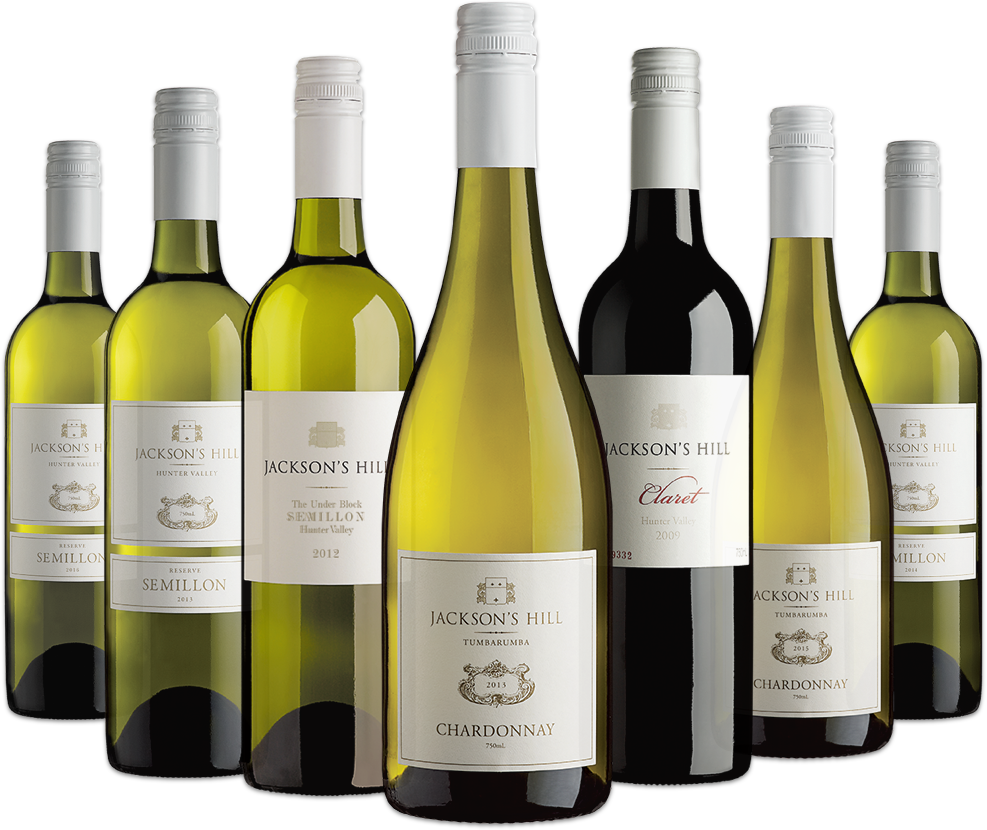
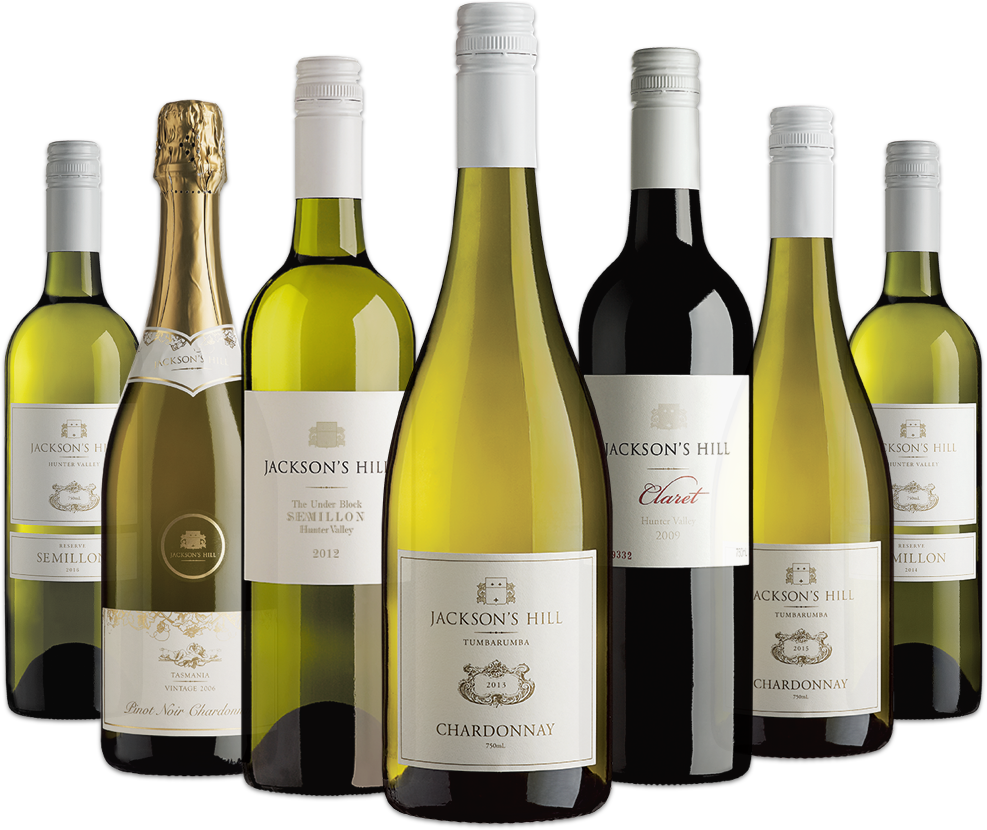
Update Group shot
Update Group shot, add Sparkling, add reviews

Changed region(s): [[0.0912, 0.0904, 0.2736, 0.9337], [0.152, 0.9337, 0.2128, 0.9639]]

diff --git a/CSS/style.css b/CSS/style.css
@@ -1,1 +1,1 @@
-@font-face{font-family:'lubalineregular';src:url("../assets/fonts/lian_types_-_lubaline-webfont.woff2") format("woff2"),url("../assets/fonts/lian_types_-_lubaline-webfont.woff") format("woff");font-weight:normal;font-style:normal}*{box-sizing:border-box}html{font-size:100%}body{background-color:#10181F;color:#F3F3F3;text-align:center;font-family:'Merriweather', serif;-webkit-font-smoothing:antialiased;-moz-osx-font-smoothing:grayscale;text-rendering:optimizelegibility;margin:0}h1,h2,h3,h4{font-weight:300;text-shadow:2px 2px 2px #000}h1,h2{font-family:'lubalineregular';font-size:2.2em;letter-spacing:2px}h3,h4{font-size:1.3em;line-height:1.6em}p{font-weight:300;line-height:1.6em;margin:0.5em auto;max-width:600px;padding:0.5em 0}p.text-left{text-align:left}a{color:#D60056;text-decoration:none;text-transform:uppercase}a:hover{color:rgba(214,0,86,0.8)}img{width:100%}a:focus{outline:none}.btn{background-color:#D60056;border:medium none;color:#F3F3F3;cursor:pointer;display:block;font-family:merriweather;font-size:1em;height:44px;line-height:44px;margin:1em auto 2em;text-align:center;text-transform:uppercase;box-shadow:0px 2px 2px #000;width:200px}.btn:hover{background-color:rgba(214,0,86,0.8);color:#F3F3F3}blockquote{background-color:rgba(16,24,31,0.7);font-style:italic;margin:1em;background-image:url(../assets/images/LeftQuote.png);background-repeat:no-repeat;background-position:top left}blockquote .intro{background-image:url(../assets/images/RightQuote.png);background-repeat:no-repeat;background-position:bottom right}blockquote p{font-style:normal;font-weight:400;padding:0 0 3em}.note{font-weight:300;font-size:0.6em}.clearfix::after{clear:both;content:" ";display:block;height:0;line-height:0;visibility:hidden}ul.nav{list-style:none;padding:0}ul.nav li{display:block;margin:1em auto;width:100px}ul.nav li a:hover{color:rgba(214,0,86,0.8);border-bottom:2px solid;padding:0 0 5px}ul.header-nav{display:none}.wines #nav-wines a,.about #nav-about a,.gallery #nav-gallery a,.video #nav-video a,.contact #nav-contact a{color:#F3F3F3;border-bottom:2px solid;padding:0 0 5px}.toggle{position:absolute;top:20px;right:20px;font-size:2em;color:#D60056;display:block}.un-toggle{position:absolute;top:22px;right:26px;font-size:2em;font-family:"Arial";color:#D60056;display:none}#menu-toggle{display:none}#menu-toggle:checked+header ul.header-nav{display:block}#menu-toggle:checked+header .un-toggle{display:block}#menu-toggle:checked+header .toggle{display:none}header h1{background-image:url(../assets/images/JacksonsHillLogoMobile.png);text-indent:-9999px;width:200px;background-repeat:no-repeat;background-size:contain;background-position:center center;margin:0.5em auto}header h1 a{display:block}.content .row{width:100%;float:left;padding:2em 0}.content .pattern-back{background-image:url("../assets/images/pattern_back.png")}.content .pattern-back .intro{width:80%;margin:0 auto;max-width:1000px;padding:3em 0}.content .pattern-back .main-carousel h3{font-size:1.1em}.content .pattern-back .quote-meta{margin-top:-3em}.content .pattern-back .quote-meta img{border-radius:50%;box-shadow:0 2px 2px #000;margin:1em 0 2em;max-width:200px;width:70%}.content .pattern-back .quote-meta h4{color:pink;font-style:normal;margin:0;text-transform:uppercase}.content .pattern-back .quote-meta p{font-size:0.8em;font-style:normal;margin:0 auto 2em}.content #map #gmap_canvas{margin:0 auto 2em;width:80%}.content #map #gmap_canvas .gm-style-iw{color:#10181F}.content .texture-back{background-image:url("../assets/images/black_bg.png");box-shadow:0 4px 12px #000;padding:1em}.content .texture-back img{max-width:280px;margin:3em auto 0}.content .texture-back h2{margin:0}.content .texture-back h3{color:pink}.content .texture-back h4{margin:0 auto 2em;width:90%}.content .photo-back{background-image:url("../assets/images/Location.jpg");background-position:center center;background-size:cover;box-shadow:0 4px 12px #000;padding:1em}.content .photo-back .intro{width:80%;margin:0 auto;max-width:1000px;padding:0 0 1em}.content .video-back{background-image:none;max-height:800px;overflow:hidden;padding:0;position:relative}.content .video-back video{width:100%;opacity:0.3}.content .video-back .overlay{position:absolute;height:100%;top:0;width:100%}.content .video-back .overlay h1,.content .video-back .overlay h2{font-size:2em}.content .video-back .overlay .player{display:none;margin:0;width:80px}.content .category-container{display:flex;flex-direction:row;flex-wrap:wrap;margin:0 auto;width:94%}.content .category-container .product-container{background-color:rgba(16,24,31,0.7);float:left;width:100%;margin:1em auto;border-bottom:1px solid #000;padding:2em 0}.content .category-container .product-container .product-image img{width:auto;height:300px}.content .category-container .product-container .product-info{font-weight:300;margin:0 auto;width:80%}.content .category-container .product-container .product-info h3{line-height:1.2em}.content .category-container .product-container .product-info .product-description{text-align:justify}.content .category-container .product-container .product-info .product-description span{color:pink;text-transform:uppercase}form{margin:0 auto;max-width:600px;width:90%}form label,form input,form textarea{display:block;text-align:left;width:100%}form label{text-transform:uppercase;color:pink;margin:1em 0 0}form input[type='text'],form input[type='email']{height:40px;background:rgba(16,24,31,0.7) none repeat scroll 0 0;border:medium none;color:#fff;font-family:'Merriweather';font-size:1em;margin:0.5em 0 2em;padding:0.5em}form textarea{min-height:200px;background:rgba(16,24,31,0.7) none repeat scroll 0 0;border:medium none;color:#fff;font-family:'Merriweather';font-size:1em;margin:0.5em 0 2em;padding:0.5em}.back-to-top{background-color:rgba(214,0,86,0.8);bottom:2%;box-shadow:0px 2px 2px #000;color:#fff;cursor:pointer;display:none;font-size:1.6em;font-weight:bold;height:40px;line-height:40px;position:fixed;right:2%;text-align:center;text-decoration:none;width:40px}.main-carousel{height:720px;margin:0 auto;width:100%}.main-carousel .carousel-cell{width:100%;height:100%;margin-right:10px}.main-carousel .carousel-cell img{max-width:1280px}.main-carousel .flickity-prev-next-button{border-radius:0;top:55%}.main-carousel .flickity-page-dots{margin:1em 0}.main-carousel .flickity-page-dots .dot{background:#F3F3F3 none repeat scroll 0 0;border-radius:50%;height:15px;margin:0 10px;opacity:0.35;width:15px}#portfolio{display:block;padding:0}#portfolio li{display:block;float:left;width:80%;margin:1em 10%}#portfolio li a{display:block;-webkit-box-shadow:1px 2px 2px rgba(0,0,0,0.25);-moz-box-shadow:1px 2px 2px rgba(0,0,0,0.25);box-shadow:1px 2px 2px rgba(0,0,0,0.25)}#videos{display:block;padding:0}#videos li{display:block;float:left;width:80%;margin:1em 10%}#videos li a{display:block;-webkit-box-shadow:1px 2px 2px rgba(0,0,0,0.25);-moz-box-shadow:1px 2px 2px rgba(0,0,0,0.25);box-shadow:1px 2px 2px rgba(0,0,0,0.25)}.video-popup{width:80%;margin:0 auto}.video-popup video{width:100%}.mfp-title{font-size:1.2em;color:#ddd !important;font-weight:700}.mfp-close-btn-in .mfp-close{color:#fff !important}footer{display:block;float:left;padding:1em;width:100%}@media only screen and (min-width: 768px){h1,h2{font-size:3.2em}h3,h4{font-size:1.6em}ul.nav li{display:inline-block;width:100px}.toggle{top:36px}.un-toggle{position:absolute;top:38px}blockquote{margin:3em}header h1{background-image:url(../assets/images/JacksonsHillLogo.png);width:400px}.content .pattern-back .intro{width:65%;padding:2em 0}.content .pattern-back .main-carousel h3{font-size:1.6em}.content .pattern-back .quote-meta{margin-top:-6em}.content .texture-back img{max-width:700px}.content .texture-back h4{width:70%}.content .video-back .overlay h1,.content .video-back .overlay h2{font-size:3.2em}.content .video-back .overlay .player{margin:3em auto}.content .category-container .product-container{width:96%}.content .category-container .product-container .product-image img{height:400px}.main-carousel{height:760px;width:90%}.main-carousel .carousel-cell{width:100%;height:100%;margin-right:10px}.main-carousel .carousel-cell img{max-width:1280px}#portfolio li{width:46%;margin:2%}#videos li{width:46%;margin:2%}}@media only screen and (min-width: 1025px){h1,h2{font-size:3.8em}h3,h4{font-size:1.7em}ul.nav li{display:inline-block}ul.nav{display:block}ul.nav li{display:inline-block}.toggle{display:none}blockquote{margin:3em auto}header h1{width:500px}.content .pattern-back{background-attachment:fixed}.content .pattern-back .intro{padding:2em 0 1em;width:41%}.content .pattern-back blockquote{max-width:1000px;width:60%}.content .pattern-back blockquote .intro{width:90%}.content #map #gmap_canvas{width:60%}.content .texture-back{background-attachment:fixed}.content .texture-back img{max-width:900px}.content .texture-back h4{width:41%}.content .photo-back{background-attachment:fixed}.content .photo-back .intro{width:41%}.content .video-back .overlay{padding:12em}.content .video-back .overlay h1,.content .video-back .overlay h2{font-size:3.8em}.content .category-container{width:90%}.content .category-container .product-container{width:29%;margin:2em 2%}.content .category-container .product-container .product-image img{height:400px}.content .category-container .product-container .product-info{width:70%}.content .category-container .product-container .product-info h3{line-height:1.2em}.content .category-container .product-container:nth-child(7){margin:2em auto}.main-carousel{height:620px}.main-carousel .carousel-cell{width:100%;height:100%;margin-right:10px}.main-carousel .carousel-cell img{max-width:1280px}.main-carousel .flickity-prev-next-button.previous{left:16%;top:50%}.main-carousel .flickity-prev-next-button.next{right:16%}#portfolio,#videos{margin:0 5%}#portfolio li,#videos li{display:block;float:left;width:32%;margin:1% 0}#portfolio li:nth-child(2),#portfolio li:nth-child(5),#portfolio li:nth-child(8),#videos li:nth-child(2),#videos li:nth-child(5),#videos li:nth-child(8){margin:1% 2%}}
+@font-face{font-family:'lubalineregular';src:url("../assets/fonts/lian_types_-_lubaline-webfont.woff2") format("woff2"),url("../assets/fonts/lian_types_-_lubaline-webfont.woff") format("woff");font-weight:normal;font-style:normal}*{box-sizing:border-box}html{font-size:100%}body{background-color:#10181F;color:#F3F3F3;text-align:center;font-family:'Merriweather', serif;-webkit-font-smoothing:antialiased;-moz-osx-font-smoothing:grayscale;text-rendering:optimizelegibility;margin:0}h1,h2,h3,h4{font-weight:300;text-shadow:2px 2px 2px #000}h1,h2{font-family:'lubalineregular';font-size:2.2em;letter-spacing:2px}h3,h4{font-size:1.3em;line-height:1.6em}p{font-weight:300;line-height:1.6em;margin:0.5em auto;max-width:600px;padding:0.5em 0}p.text-left{text-align:left}a{color:#D60056;text-decoration:none;text-transform:uppercase}a:hover{color:rgba(214,0,86,0.8)}img{width:100%}a:focus{outline:none}.btn{background-color:#D60056;border:medium none;color:#F3F3F3;cursor:pointer;display:block;font-family:merriweather;font-size:1em;height:44px;line-height:44px;margin:1em auto 2em;text-align:center;text-transform:uppercase;box-shadow:0px 2px 2px #000;width:200px}.btn:hover{background-color:rgba(214,0,86,0.8);color:#F3F3F3}blockquote{background-color:rgba(16,24,31,0.7);font-style:italic;margin:1em;background-image:url(../assets/images/LeftQuote.png);background-repeat:no-repeat;background-position:top left}blockquote .intro{background-image:url(../assets/images/RightQuote.png);background-repeat:no-repeat;background-position:bottom right}blockquote p{font-style:normal;font-weight:400;padding:0 0 3em}.note{font-weight:300;font-size:0.6em}.clearfix::after{clear:both;content:" ";display:block;height:0;line-height:0;visibility:hidden}ul.nav{list-style:none;padding:0}ul.nav li{display:block;margin:1em auto;width:100px}ul.nav li a:hover{color:rgba(214,0,86,0.8);border-bottom:2px solid;padding:0 0 5px}ul.header-nav{display:none}.wines #nav-wines a,.about #nav-about a,.gallery #nav-gallery a,.video #nav-video a,.contact #nav-contact a{color:#F3F3F3;border-bottom:2px solid;padding:0 0 5px}.toggle{position:absolute;top:20px;right:20px;font-size:2em;color:#D60056;display:block}.un-toggle{position:absolute;top:22px;right:26px;font-size:2em;font-family:"Arial";color:#D60056;display:none}#menu-toggle{display:none}#menu-toggle:checked+header ul.header-nav{display:block}#menu-toggle:checked+header .un-toggle{display:block}#menu-toggle:checked+header .toggle{display:none}header h1{background-image:url(../assets/images/JacksonsHillLogoMobile.png);text-indent:-9999px;width:200px;background-repeat:no-repeat;background-size:contain;background-position:center center;margin:0.5em auto}header h1 a{display:block}.content .row{width:100%;float:left;padding:2em 0}.content .pattern-back{background-image:url("../assets/images/pattern_back.png")}.content .pattern-back .intro{width:80%;margin:0 auto;max-width:1000px;padding:3em 0}.content .pattern-back .main-carousel h3{font-size:1.1em}.content .pattern-back .quote-meta{margin-top:-3em}.content .pattern-back .quote-meta img{border-radius:50%;box-shadow:0 2px 2px #000;margin:1em 0 2em;max-width:200px;width:70%}.content .pattern-back .quote-meta h4{color:pink;font-style:normal;margin:0;text-transform:uppercase}.content .pattern-back .quote-meta p{font-size:0.8em;font-style:normal;margin:0 auto 2em}.content #map #gmap_canvas{margin:0 auto 2em;width:80%}.content #map #gmap_canvas .gm-style-iw{color:#10181F}.content .texture-back{background-image:url("../assets/images/black_bg.png");box-shadow:0 4px 12px #000;padding:1em}.content .texture-back img{max-width:280px;margin:3em auto 0}.content .texture-back h2{margin:0}.content .texture-back h3{color:pink}.content .texture-back h4{margin:0 auto 2em;width:90%}.content .photo-back{background-image:url("../assets/images/Location.jpg");background-position:center center;background-size:cover;box-shadow:0 4px 12px #000;padding:1em}.content .photo-back .intro{width:80%;margin:0 auto;max-width:1000px;padding:0 0 1em}.content .video-back{background-image:none;max-height:800px;overflow:hidden;padding:0;position:relative}.content .video-back video{width:100%;opacity:0.3}.content .video-back .overlay{position:absolute;height:100%;top:0;width:100%}.content .video-back .overlay h1,.content .video-back .overlay h2{font-size:2em}.content .video-back .overlay .player{display:none;margin:0;width:80px}.content .category-container{display:flex;flex-direction:row;flex-wrap:wrap;margin:0 auto;width:94%}.content .category-container .product-container{background-color:rgba(16,24,31,0.7);float:left;width:100%;margin:1em auto;border-bottom:1px solid #000;padding:2em 0}.content .category-container .product-container .product-image img{width:auto;height:300px}.content .category-container .product-container .product-info{font-weight:300;margin:0 auto;width:80%}.content .category-container .product-container .product-info h3{line-height:1.2em}.content .category-container .product-container .product-info .product-description{text-align:justify}.content .category-container .product-container .product-info .product-description span{color:pink;text-transform:uppercase}form{margin:0 auto;max-width:600px;width:90%}form label,form input,form textarea{display:block;text-align:left;width:100%}form label{text-transform:uppercase;color:pink;margin:1em 0 0}form input[type='text'],form input[type='email']{height:40px;background:rgba(16,24,31,0.7) none repeat scroll 0 0;border:medium none;color:#fff;font-family:'Merriweather';font-size:1em;margin:0.5em 0 2em;padding:0.5em}form textarea{min-height:200px;background:rgba(16,24,31,0.7) none repeat scroll 0 0;border:medium none;color:#fff;font-family:'Merriweather';font-size:1em;margin:0.5em 0 2em;padding:0.5em}.back-to-top{background-color:rgba(214,0,86,0.8);bottom:2%;box-shadow:0px 2px 2px #000;color:#fff;cursor:pointer;display:none;font-size:1.6em;font-weight:bold;height:40px;line-height:40px;position:fixed;right:2%;text-align:center;text-decoration:none;width:40px}.main-carousel{height:720px;margin:0 auto;width:100%}.main-carousel .carousel-cell{width:100%;height:100%;margin-right:10px}.main-carousel .carousel-cell img{max-width:1280px}.main-carousel .flickity-prev-next-button{border-radius:0;top:55%}.main-carousel .flickity-page-dots{margin:1em 0}.main-carousel .flickity-page-dots .dot{background:#F3F3F3 none repeat scroll 0 0;border-radius:50%;height:15px;margin:0 10px;opacity:0.35;width:15px}#portfolio{display:block;padding:0}#portfolio li{display:block;float:left;width:80%;margin:1em 10%}#portfolio li a{display:block;-webkit-box-shadow:1px 2px 2px rgba(0,0,0,0.25);-moz-box-shadow:1px 2px 2px rgba(0,0,0,0.25);box-shadow:1px 2px 2px rgba(0,0,0,0.25)}#videos{display:block;padding:0}#videos li{display:block;float:left;width:80%;margin:1em 10%}#videos li a{display:block;-webkit-box-shadow:1px 2px 2px rgba(0,0,0,0.25);-moz-box-shadow:1px 2px 2px rgba(0,0,0,0.25);box-shadow:1px 2px 2px rgba(0,0,0,0.25)}.video-popup{width:80%;margin:0 auto}.video-popup video{width:100%}.mfp-title{font-size:1.2em;color:#ddd !important;font-weight:700}.mfp-close-btn-in .mfp-close{color:#fff !important}footer{display:block;float:left;padding:1em;width:100%}@media only screen and (min-width: 768px){h1,h2{font-size:3.2em}h3,h4{font-size:1.6em}ul.nav li{display:inline-block;width:100px}.toggle{top:36px}.un-toggle{position:absolute;top:38px}blockquote{margin:3em}header h1{background-image:url(../assets/images/JacksonsHillLogo.png);width:400px}.content .pattern-back .intro{width:65%;padding:2em 0}.content .pattern-back .main-carousel h3{font-size:1.6em}.content .pattern-back .quote-meta{margin-top:-6em}.content .texture-back img{max-width:700px}.content .texture-back h4{width:70%}.content .video-back .overlay h1,.content .video-back .overlay h2{font-size:3.2em}.content .video-back .overlay .player{margin:3em auto}.content .category-container .product-container{width:96%}.content .category-container .product-container .product-image img{height:400px}.main-carousel{height:760px;width:90%}.main-carousel .carousel-cell{width:100%;height:100%;margin-right:10px}.main-carousel .carousel-cell img{max-width:1280px}#portfolio li{width:46%;margin:2%}#videos li{width:46%;margin:2%}}@media only screen and (min-width: 1025px){h1,h2{font-size:3.8em}h3,h4{font-size:1.7em}ul.nav li{display:inline-block}ul.nav{display:block}ul.nav li{display:inline-block}.toggle{display:none}blockquote{margin:3em auto}header h1{width:500px}.content .pattern-back{background-attachment:fixed}.content .pattern-back .intro{padding:2em 0 1em;width:41%}.content .pattern-back blockquote{max-width:1000px;width:60%}.content .pattern-back blockquote .intro{width:86%}.content #map #gmap_canvas{width:60%}.content .texture-back{background-attachment:fixed}.content .texture-back img{max-width:900px}.content .texture-back h4{width:41%}.content .photo-back{background-attachment:fixed}.content .photo-back .intro{width:41%}.content .video-back .overlay{padding:12em}.content .video-back .overlay h1,.content .video-back .overlay h2{font-size:3.8em}.content .category-container{width:90%}.content .category-container .product-container{width:29%;margin:2em 2%}.content .category-container .product-container .product-image img{height:400px}.content .category-container .product-container .product-info{width:70%}.content .category-container .product-container .product-info h3{line-height:1.2em}.main-carousel{height:620px}.main-carousel .carousel-cell{width:100%;height:100%;margin-right:10px}.main-carousel .carousel-cell img{max-width:1280px}.main-carousel .flickity-prev-next-button.previous{left:16%;top:50%}.main-carousel .flickity-prev-next-button.next{right:16%}#portfolio,#videos{margin:0 5%}#portfolio li,#videos li{display:block;float:left;width:32%;margin:1% 0}#portfolio li:nth-child(2),#portfolio li:nth-child(5),#portfolio li:nth-child(8),#videos li:nth-child(2),#videos li:nth-child(5),#videos li:nth-child(8){margin:1% 2%}}

diff --git a/jacksons-hill-wines.html b/jacksons-hill-wines.html
@@ -32,95 +32,25 @@
 					<h2>Magnificant Wines</h2>
 					<div class="category-container clearfix">
 
-						<div class="product-container">
-							<div class="product-image" id="portfolio">
-								<img src="assets/images/Products/JacksonsHillChardonnay2013.png" alt="Jackson's Hill Chardonnay 2013">
-							</div>
-							<div class="product-info">
-								<h3>Jackson's Hill Chardonnay 2013</h3>
-								<div class="product-description">
-									<p>Embracing the finesse of cool climate Chardonnay, this Chardonnay includes fruit from Tumbarumba for this Wine Selectors exclusive.</p>
-									<p>Savoury aromas of white peach, lemon zest and citrus blossom with a sea spray-like minerality lead to a vibrant yet restrained palate. A umami-like layer adds depth while lees bring cashew richness and pristine acidity ensures cellaring potential.</p>
-								</div>
-							</div>
-							<div class="product-purchase">
-								<a class="btn" href="https://www.wineselectors.com.au/product/jacks20113-jacksons-hill-chardonnay-2013" target="_blank">Buy now</a>
-								<p class="note">(purchase from Wine Selectors)</p>
-							</div>
-						</div>
-						
-						<div class="product-container">
+						<div class="product-container" id="sem-16">
 							<div class="product-image">
-								<img src="assets/images/Products/JacksonsHillChardonnay2015.png" alt="Jackson's Hill Chardonnay 2015">
+								<img src="assets/images/Products/JacksonsHillSemillon2016.png" alt="Jackson's Hill Reserve Semillon 2016">
 							</div>
 							<div class="product-info">
-								<h3>Jackson's Hill Chardonnay 2015</h3>
+								<h3>Jackson's Hill Reserve Semillon 2016</h3>
 								<div class="product-description">
-									<p><span>In the glass:</span> Pale yellow straw.<br />
-									<span>On the nose:</span> A wine of purity with white peach and complex hints of loquat.<br />
-									<span>On the palate:</span> The mid-palate is mouth-watering and savoury, the finish long and minerally with elegant umami appeal. A delicioulsy refined cool climate wine.</p>
+									<p><span>In the glass:</span> Bright pale yellow.<br />
+									<span>On the nose:</span> Delicate mix of yellow fruits, lime leaf and lemon curd.<br />
+									<span>On the palate:</span> Light and dry yet quite intense and textural with understated citrus and light stonefruit flavours and mouth-watering texture. The mid-palate is quite deep with vibrant lemony acidity driving the long finish.</p>
 								</div>
 							</div>
 							<div class="product-purchase">
-								<a class="btn" href="https://www.wineselectors.com.au/product/jacks20115-jacksons-hill-chardonnay-2015" target="_blank">Buy now</a>
-								<p class="note">(purchase from Wine Selectors)</p>
-							</div>
-						</div>
-						
-						<div class="product-container">
-							<div class="product-image">
-								<img src="assets/images/Products/JacksonsHillSemillon2012.png" alt="Jackson's Hill The Under Block Semillon 2012">
-							</div>
-							<div class="product-info">
-								<h3>Jackson's Hill The Under Block Semillon 2012</h3>
-								<div class="product-description">
-									<p>Despite a frustrating vintage, the grapes were pristine and the inclusion of fermentation solids resulted in a wine with lovely texture and concentration.</p>
-									<p>It’s pale lemon in the glass with preserved lemon, hints of herb and talc on the nose. The intention when making this wine was to impart texture and the result is a full and chewy palate, making it a classic food wine.</p>
-								</div>
-							</div>
-							<div class="product-purchase">
-								<a class="btn" href="https://www.wineselectors.com.au/product/jacks20212-jacksons-hill-the-under-block-semillon-2012" target="_blank">Buy now</a>
+								<a class="btn" href="https://www.wineselectors.com.au/product/jacks20216-jacksons-hill-reserve-semillon-2016" target="_blank">Buy now</a>
 								<p class="note">(purchase from Wine Selectors)</p>
 							</div>
 						</div>
 
-						<div class="product-container">
-							<div class="product-image">
-								<img src="assets/images/Products/JacksonsHillClaret2009.png" alt="Jackson's Hill Claret 2009">
-							</div>
-							<div class="product-info">
-								<h3>Jackson's Hill Claret 2009</h3>
-								<div class="product-description">
-									<p>This Trophy and Gold medal-winning Cabernet Sauvignon and Cabernet Franc blend was named ‘Claret’ as a homage to the Australian Clarets that came before it - a term which will soon disappear from Australian red ‘Bordeaux’ blends.</p>
-									<p><span>In the glass:</span> Brick red.<br />
-									<span>On the nose:</span> Fragrant with a complexing smokey character.<br />
-									<span>On the palate:</span> Quite silky and elegant in structure. The tannins are present, but not dominating, and three-year-old oak ties the Cabernet Sauvignon and Cabernet Franc together in a harmonious effort.</p>
-								</div>
-							</div>
-							<div class="product-purchase">
-								<a class="btn" href="https://www.wineselectors.com.au/product/jacks30609-jacksons-hill-claret-2009" target="_blank">Buy now</a>
-								<p class="note">(purchase from Wine Selectors)</p>
-							</div>
-						</div>
-						
-						<div class="product-container">
-							<div class="product-image">
-								<img src="assets/images/Products/JacksonsHillSemillon2013.png" alt="Jackson's Hill The Reserve Semillon 2013">
-							</div>
-							<div class="product-info">
-								<h3>Jackson's Hill The Reserve Semillon 2013</h3>
-								<div class="product-description">
-									<p>From a highly awarded boutique Hunter winery, this 2013 Semillon is a fantastic example of classic regional Semillon.</p>
-									<p>Almost water white with flashes of lemon, it has a nose displaying preserved lemon, talc and herbs. Lemon and lemongrass flavours rule the palate, which has zesty energy, while haunting chalky textural notes build complexity and give the citrus fruits a long platform.</p>
-								</div>
-							</div>
-							<div class="product-purchase">
-								<a class="btn" href="https://www.wineselectors.com.au/product/jacks20213-jacksons-hill-the-reserve-semillon-2013" target="_blank">Buy now</a>
-								<p class="note">(purchase from Wine Selectors)</p>
-							</div>
-						</div>
-
-						<div class="product-container">
+						<div class="product-container" id="sem-14">
 							<div class="product-image">
 								<img src="assets/images/Products/JacksonsHillSemillon2014.png" alt="Jackson's Hill The Reserve Semillon 2014">
 							</div>
@@ -139,20 +69,107 @@
 							</div>
 						</div>
 
-						<div class="product-container">
+						<div class="product-container" id="sem-13">
 							<div class="product-image">
-								<img src="assets/images/Products/JacksonsHillSemillon2016.png" alt="Jackson's Hill Reserve Semillon 2016">
+								<img src="assets/images/Products/JacksonsHillSemillon2013.png" alt="Jackson's Hill The Reserve Semillon 2013">
 							</div>
 							<div class="product-info">
-								<h3>Jackson's Hill Reserve Semillon 2016</h3>
+								<h3>Jackson's Hill The Reserve Semillon 2013</h3>
 								<div class="product-description">
-									<p><span>In the glass:</span> Bright pale yellow.<br />
-									<span>On the nose:</span> Delicate mix of yellow fruits, lime leaf and lemon curd.<br />
-									<span>On the palate:</span> Light and dry yet quite intense and textural with understated citrus and light stonefruit flavours and mouth-watering texture. The mid-palate is quite deep with vibrant lemony acidity driving the long finish.</p>
+									<p>From a highly awarded boutique Hunter winery, this 2013 Semillon is a fantastic example of classic regional Semillon.</p>
+									<p>Almost water white with flashes of lemon, it has a nose displaying preserved lemon, talc and herbs. Lemon and lemongrass flavours rule the palate, which has zesty energy, while haunting chalky textural notes build complexity and give the citrus fruits a long platform.</p>
 								</div>
 							</div>
 							<div class="product-purchase">
-								<a class="btn" href="https://www.wineselectors.com.au/product/jacks20214-jacksons-hill-the-reserve-semillon-2014" target="_blank">Buy now</a>
+								<a class="btn" href="https://www.wineselectors.com.au/product/jacks20213-jacksons-hill-the-reserve-semillon-2013" target="_blank">Buy now</a>
+								<p class="note">(purchase from Wine Selectors)</p>
+							</div>
+						</div>
+
+						<div class="product-container" id="sem-12">
+							<div class="product-image">
+								<img src="assets/images/Products/JacksonsHillSemillon2012.png" alt="Jackson's Hill The Under Block Semillon 2012">
+							</div>
+							<div class="product-info">
+								<h3>Jackson's Hill The Under Block Semillon 2012</h3>
+								<div class="product-description">
+									<p>Despite a frustrating vintage, the grapes were pristine and the inclusion of fermentation solids resulted in a wine with lovely texture and concentration.</p>
+									<p>It’s pale lemon in the glass with preserved lemon, hints of herb and talc on the nose. The intention when making this wine was to impart texture and the result is a full and chewy palate, making it a classic food wine.</p>
+								</div>
+							</div>
+							<div class="product-purchase">
+								<a class="btn" href="https://www.wineselectors.com.au/product/jacks20212-jacksons-hill-the-under-block-semillon-2012" target="_blank">Buy now</a>
+								<p class="note">(purchase from Wine Selectors)</p>
+							</div>
+						</div>
+
+						<div class="product-container" id="char-15">
+							<div class="product-image">
+								<img src="assets/images/Products/JacksonsHillChardonnay2015.png" alt="Jackson's Hill Chardonnay 2015">
+							</div>
+							<div class="product-info">
+								<h3>Jackson's Hill Chardonnay 2015</h3>
+								<div class="product-description">
+									<p><span>In the glass:</span> Pale yellow straw.<br />
+									<span>On the nose:</span> A wine of purity with white peach and complex hints of loquat.<br />
+									<span>On the palate:</span> The mid-palate is mouth-watering and savoury, the finish long and minerally with elegant umami appeal. A delicioulsy refined cool climate wine.</p>
+								</div>
+							</div>
+							<div class="product-purchase">
+								<a class="btn" href="https://www.wineselectors.com.au/product/jacks20115-jacksons-hill-chardonnay-2015" target="_blank">Buy now</a>
+								<p class="note">(purchase from Wine Selectors)</p>
+							</div>
+						</div>
+
+						<div class="product-container" id="char-13">
+							<div class="product-image">
+								<a href="assets/images/Products/JacksonsHillChardonnay2013.png" title="Jackson's Hill Chardonnay 2013"><img src="assets/images/Products/JacksonsHillChardonnay2013.png" alt="Jackson's Hill Chardonnay 2013"></a>
+							</div>
+							<div class="product-info">
+								<h3>Jackson's Hill Chardonnay 2013</h3>
+								<div class="product-description">
+									<p>Embracing the finesse of cool climate Chardonnay, this Chardonnay includes fruit from Tumbarumba for this Wine Selectors exclusive.</p>
+									<p>Savoury aromas of white peach, lemon zest and citrus blossom with a sea spray-like minerality lead to a vibrant yet restrained palate. A umami-like layer adds depth while lees bring cashew richness and pristine acidity ensures cellaring potential.</p>
+								</div>
+							</div>
+							<div class="product-purchase">
+								<a class="btn" href="https://www.wineselectors.com.au/product/jacks20113-jacksons-hill-chardonnay-2013" target="_blank">Buy now</a>
+								<p class="note">(purchase from Wine Selectors)</p>
+							</div>
+						</div>
+						
+						<div class="product-container" id="clar-09">
+							<div class="product-image">
+								<img src="assets/images/Products/JacksonsHillClaret2009.png" alt="Jackson's Hill Claret 2009">
+							</div>
+							<div class="product-info">
+								<h3>Jackson's Hill Claret 2009</h3>
+								<div class="product-description">
+									<p>This Trophy and Gold medal-winning Cabernet Sauvignon and Cabernet Franc blend was named ‘Claret’ as a homage to the Australian Clarets that came before it - a term which will soon disappear from Australian red ‘Bordeaux’ blends.</p>
+									<p><span>In the glass:</span> Brick red.<br />
+									<span>On the nose:</span> Fragrant with a complexing smokey character.<br />
+									<span>On the palate:</span> Quite silky and elegant in structure. The tannins are present, but not dominating, and three-year-old oak ties the Cabernet Sauvignon and Cabernet Franc together in a harmonious effort.</p>
+								</div>
+							</div>
+							<div class="product-purchase">
+								<a class="btn" href="https://www.wineselectors.com.au/product/jacks30609-jacksons-hill-claret-2009" target="_blank">Buy now</a>
+								<p class="note">(purchase from Wine Selectors)</p>
+							</div>
+						</div>
+
+						<div class="product-container" id="spark-06">
+							<div class="product-image">
+								<img src="assets/images/Products/JacksonsHillSparklingPinotNoirChardonnay2006.png" alt="Jackson's Hill Sparking Pinot Noir Chardonnay 2006">
+							</div>
+							<div class="product-info">
+								<h3>Jackson's Hill Sparking Pinot Noir Chardonnay 2006</h3>
+								<div class="product-description">
+									<p>Hunter Valley winery Jackson’s Hill has sourced cool climate fruit from Tasmania for this beautiful aged Sparkling.</p>
+									<p>Medium straw in the glass with a fine persistent bead, it displays attractive aromas of baked apple with touches of bottle aged honey and toast. The smooth, creamy and generous palate is developing well, showing long leesy richness underpinning generous stonefruit and preserved lemon. A beautiful aged style which is close to showing its best.</p>
+								</div>
+							</div>
+							<div class="product-purchase">
+								<a class="btn" href="https://www.wineselectors.com.au/product/JACKS20806-Jacksons-Hill-Sparking-Pinot-Noir-Chardonnay-2006" target="_blank">Buy now</a>
 								<p class="note">(purchase from Wine Selectors)</p>
 							</div>
 						</div>

diff --git a/index.html b/index.html
@@ -64,7 +64,7 @@
 						<div class="carousel-cell">
 						  	<blockquote>
 								<h3 class="intro">Fresh crisp lemony citrus palate that is delicate, intense, textural and really mouth watering… but hey that’s great Semillon from the Hunter Valley. Now, where’s the Oysters?</h3>
-								<p><a href="/jacksons-hill-wines.html">Jackson’s Hill Reserve 2016 Semillon &#10145;</a></p>
+								<p><a href="/jacksons-hill-wines.html#sem-16">Jackson’s Hill Reserve 2016 Semillon &#10145;</a></p>
 							</blockquote>
 							<div class="quote-meta">
 								<img src="assets/images/tasting-panel-nicole.jpg">
@@ -75,7 +75,7 @@
 						<div class="carousel-cell">
 						  	<blockquote>
 								<h3 class="intro">This very textural chardonnay was produced for the long haul. Typical cool climate vibrancy and firm acid backbone will ensure great cellaring over the next 5-10 years</h3>
-								<p><a href="/jacksons-hill-wines.html">Jackson’s Hill Reserve 2015 Chardonnay &#10145;</a></p>
+								<p><a href="/jacksons-hill-wines.html#char-15">Jackson’s Hill Reserve 2015 Chardonnay &#10145;</a></p>
 							</blockquote>
 							<div class="quote-meta">
 								<img src="assets/images/tasting-panel-trent.jpg">
@@ -85,8 +85,8 @@
 						</div>
 						<div class="carousel-cell">
 						  	<blockquote>
-								<h3 class="intro">With a complexing smokey character, silky and elegant in structure, the three-year-old oak ties the Cabernet Sauvignon and Cabernet Franc together in a harmonious effort.</h3>
-								<p><a href="../JacksonsHill/jacksons-hill-wines.html">Jackson's Hill Claret 2009 &#10145;</a></p>
+								<h3 class="intro">Lively and full of energy this Semillon defines refreshment. Lemon, lime and lemongrass take centre stage.<br>It delivers power with a gentle touch.</h3>
+								<p><a href="/jacksons-hill-wines.html#sem-14">Jackson's Hill The Reserve Semillon 2014 &#10145;</a></p>
 							</blockquote>
 							<div class="quote-meta">
 								<img src="assets/images/tasting-panel-adam.jpg">
@@ -96,8 +96,8 @@
 						</div>
 						<div class="carousel-cell">
 						  	<blockquote>
-								<h3 class="intro">The mid-palate is mouth-watering and savoury, the finish long and minerally with elegant umami appeal. A delicioulsy refined cool climate wine.</h3>
-								<p><a href="/jacksons-hill-wines.html">Jackson's Hill Chardonnay 2013 &#10145;</a></p>
+								<h3 class="intro">Packed with flavour and complexity from extended lees aging, this delicious sparkling is still very fresh and lively, with a fine bead and creamy mousse</h3>
+								<p><a href="/jacksons-hill-wines.html#spark-06">Jackson's Hill Sparking Pinot Noir Chardonnay 2006 &#10145;</a></p>
 							</blockquote>
 							<div class="quote-meta">
 								<img src="assets/images/tasting-panel-dave.jpg">

diff --git a/SASS/_desktop.scss b/SASS/_desktop.scss
@@ -47,7 +47,7 @@ header {
 			max-width: 1000px;
     		width: 60%;
 			.intro {
-				width: 90%;
+				width: 86%;
 			}
 		}
 	}
@@ -99,7 +99,7 @@ header {
 			}	
 		}
 		.product-container:nth-child(7) {
-		    margin: 2em auto;
+		    /*margin: 2em auto;*/
 		}
 	}
 }
